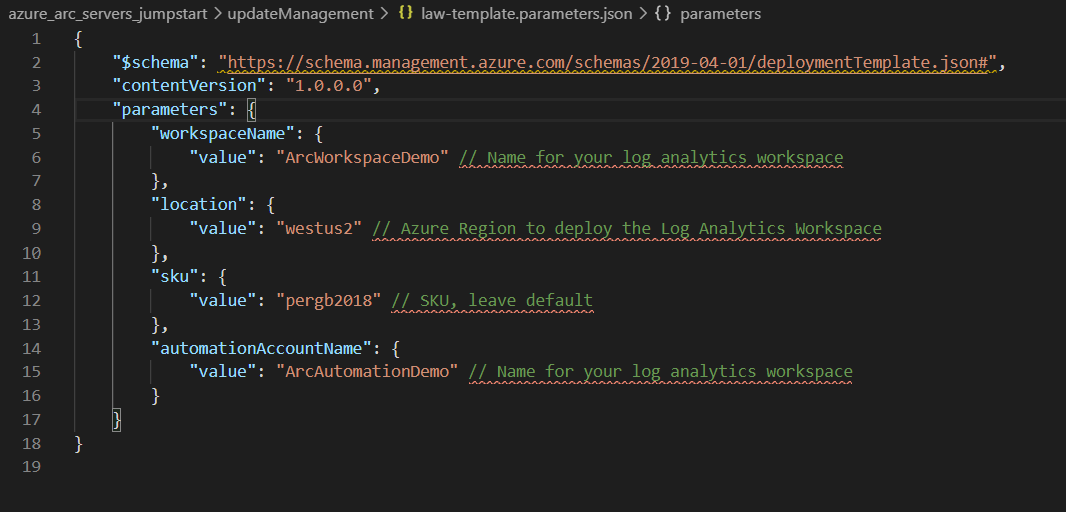
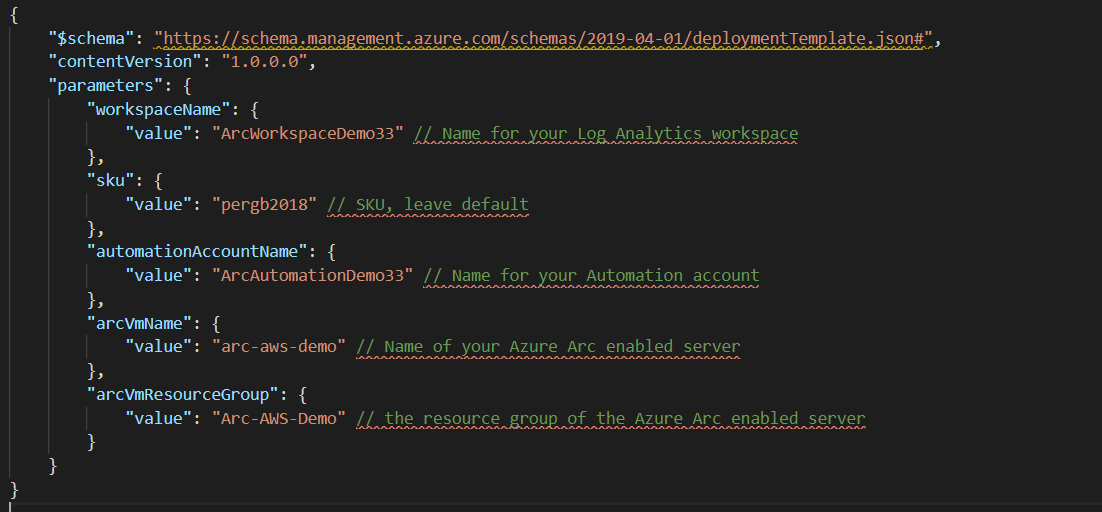
updates to fully automate from one arm template

diff --git a/azure_arc_servers_jumpstart/docs/arc_updateManagement.md b/azure_arc_servers_jumpstart/docs/arc_updateManagement.md
@@ -72,53 +72,27 @@ Update Management uses the Log Analytics agent to collect Windows and Linux serv
     ```
     ![](../img/updateManagement/03.png)
 
-* Next, edit the ARM template [parameters file](../updateManagement/law-template.parameters.json), providing a name for your Log Analytics workspace, a location, and a name for your Azure Automation account as shown in the example below:
+* Next, edit the ARM template [parameters file](../updateManagement/law-template.parameters.json), providing a name for your Log Analytics workspace, a location, and a name for your Azure Automation account. You also need to supply the name of your Azure Arc enabled server, and the name of the resource group that contains the Arc enabled server as shown in the example below:
 
     ![](../img/updateManagement/04.png)
 
 * To deploy the ARM template, navigate to the [deployment folder](../updateManagement/) and run the below command:
 
     ```bash
-    az deployment group create --resource-group <Name of your Azure Resource Group> \
+    az deployment group create --resource-group <Name of the Azure Resource Group you created> \
         --template-file law-template.json \
         --parameters law-template.parameters.json
     ```
 
    ![](../img/updateManagement/05.png)
 
-* When the deployment is complete, you should be able to see your Log Analytics workspace with the Update Management solution from the Azure Portal as shown below.
+* When the deployment is complete, you should be able to see the resource group with your Log Analytics workspace, automation account and Update Management solution from the Azure Portal. Drilling into the Log Analytics workspace Solutions blade should show the Update Management solution.
 
     ![](../img/updateManagement/06.png)
 
-# Onboarding on the Azure Arc enabled server to Update Management
+# Confirm that the Update Management solution is deployed on your Azure Arc enabled server.
 
-Once you have deployed the Update Management on your Log Analytics workspace, you will need to connect data sources to it. To do this for an Azure Arc enabled server, we must deploy the Log Analytics extension. There are multiple ways to deploy the extension to an Azure Arc enabled server. In this scenario, we will be using the Azure Portal. Other common methods include using an [ARM template](arc_vm_extension_mma_arm.md) or [Azure Policy](https://docs.microsoft.com/en-us/azure/azure-arc/servers/policy-reference).
-
-* Navigate to the Log Analytics workspace and copy the Workspace ID and Primary key for use later.
-
-    ![](../img/updateManagement/07.png)
-
-* Navigate "Extensions" blade of your Azure Arc connected server as shown in the screenshot below.
-
-    ![](../img/updateManagement/08.png)
-
-* Select the Log Analytics Agent extension.
-
-    ![](../img/updateManagement/09.png)
-
-* Click Create.
-
-    ![](../img/updateManagement/10.png)
-
-* Enter the values for the Workspace ID and key that you copied earlier. and then click through Review + Create.
-
-    ![](../img/updateManagement/11.png)
-
-* The extension should start to deploy and you should see a screen similar to the example below.
-
-    ![](../img/updateManagement/12.png)
-
-* Click on the Solutions blade of the Log Analytics workspace to check the progress of the Update Management assessment.
+* Click on the Solutions blade of the Log Analytics workspace and then click the Updates solution from the list to check the progress of the Update Management assessment.
 
     ![](../img/updateManagement/13.png)
 
@@ -130,7 +104,7 @@ Once you have deployed the Update Management on your Log Analytics workspace, yo
 
     ![](../img/updateManagement/15.png)
 
-* Click View Summary and then click again to drill into the Update Management assessment. In the below example we can see there are updates missing from our Azure Arc enabled server.
+* Click View Summary and then click again to drill into the Update Management assessment. In the below example we can see there are updates missing on our Azure Arc enabled server.
 
     ![](../img/updateManagement/16.png)
 
